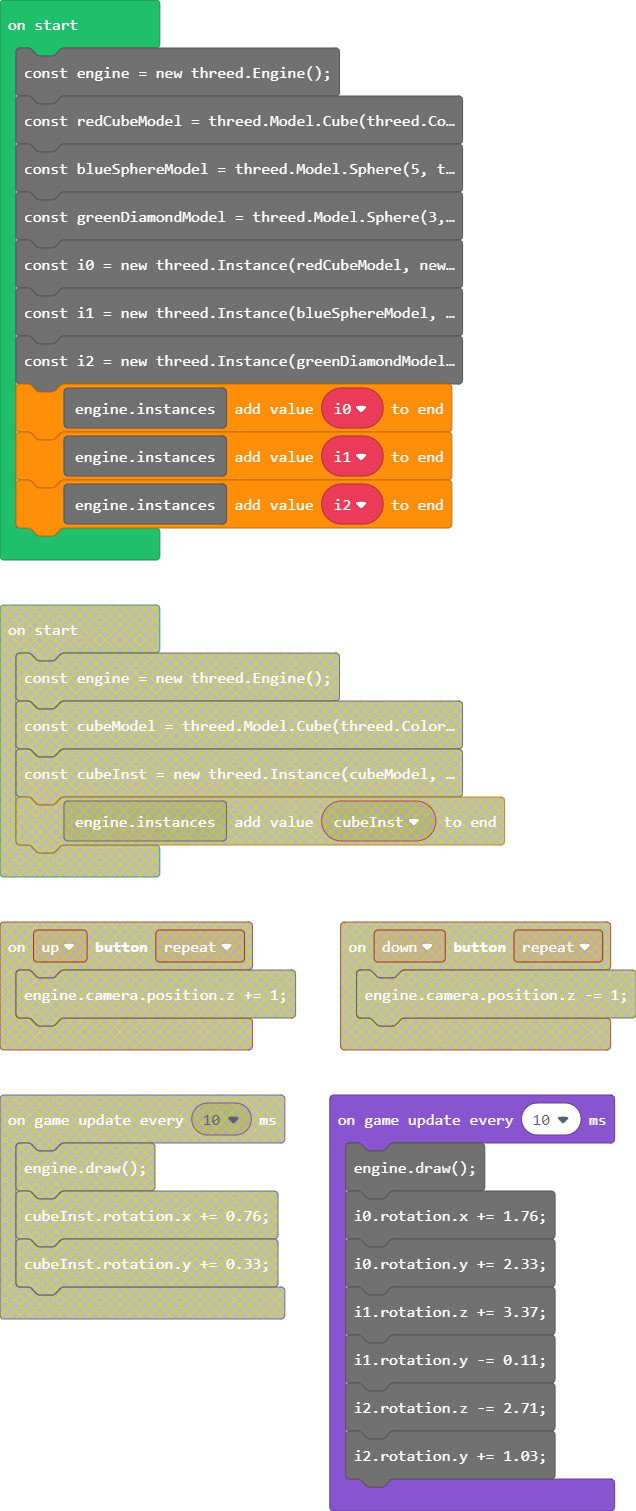
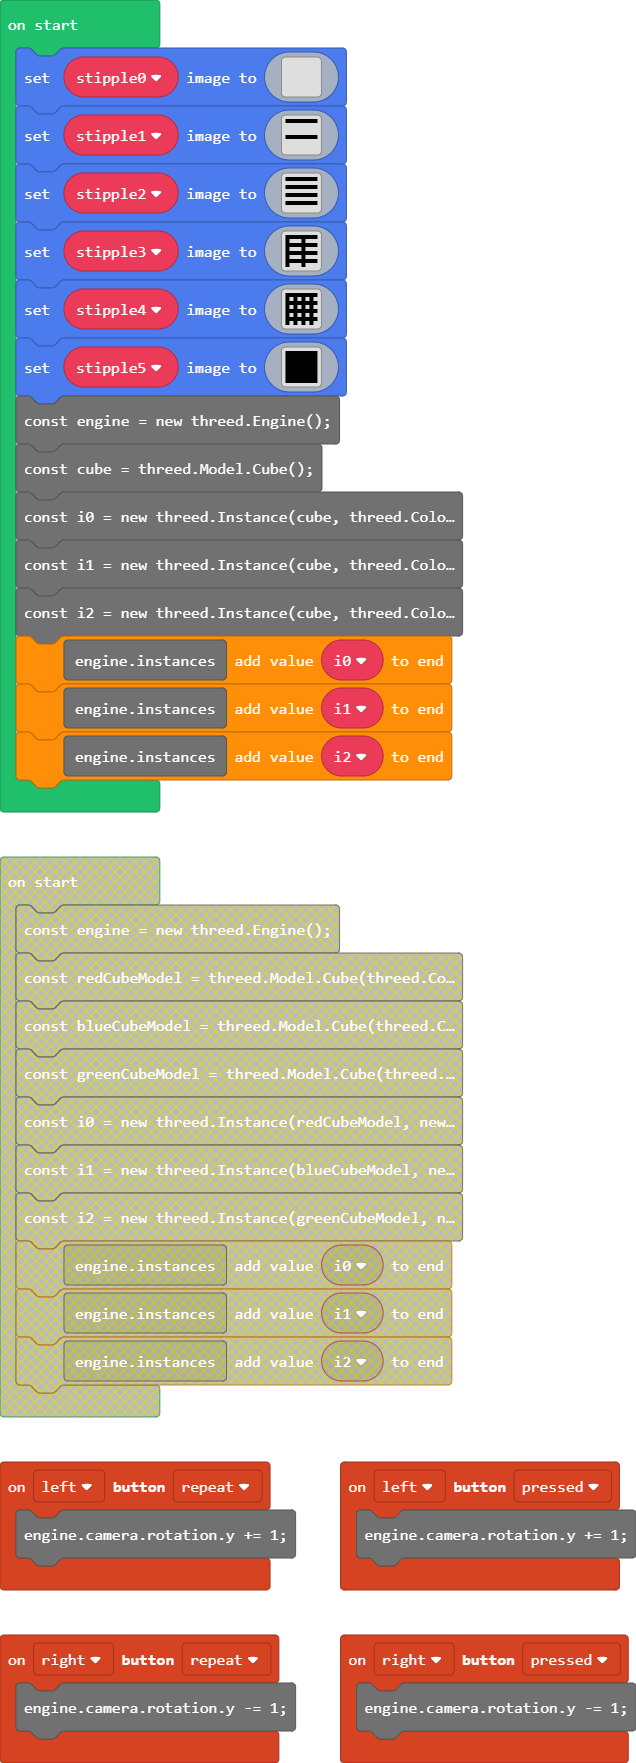
stipple wip

diff --git a/main.ts b/main.ts
@@ -1,8 +1,17 @@
+controller.right.onEvent(ControllerButtonEvent.Repeated, function () {
+    engine.camera.rotation.y -= 1;
+})
 controller.down.onEvent(ControllerButtonEvent.Repeated, function () {
     engine.camera.position.z -= 1;
 })
+controller.left.onEvent(ControllerButtonEvent.Pressed, function () {
+    engine.camera.rotation.y += 1;
+})
 controller.down.onEvent(ControllerButtonEvent.Pressed, function () {
     engine.camera.position.z -= 1;
+})
+controller.right.onEvent(ControllerButtonEvent.Pressed, function () {
+    engine.camera.rotation.y -= 1;
 })
 controller.up.onEvent(ControllerButtonEvent.Repeated, function () {
     engine.camera.position.z += 1;
@@ -10,6 +19,75 @@ controller.up.onEvent(ControllerButtonEvent.Repeated, function () {
 controller.up.onEvent(ControllerButtonEvent.Pressed, function () {
     engine.camera.position.z += 1;
 })
+controller.left.onEvent(ControllerButtonEvent.Repeated, function () {
+    engine.camera.rotation.y += 1;
+})
+let stipple5: Sprite = null
+let stipple4: Sprite = null
+let stipple3: Sprite = null
+let stipple2: Sprite = null
+let stipple1: Sprite = null
+let stipple0: Sprite = null
+stipple0.setImage(img`
+    . . . . . . . .
+    . . . . . . . .
+    . . . . . . . .
+    . . . . . . . .
+    . . . . . . . .
+    . . . . . . . .
+    . . . . . . . .
+    . . . . . . . .
+`)
+stipple1.setImage(img`
+    f f f f f f f f
+    . . . . . . . .
+    . . . . . . . .
+    . . . . . . . .
+    f f f f f f f f
+    . . . . . . . .
+    . . . . . . . .
+    . . . . . . . .
+`)
+stipple2.setImage(img`
+    f f f f f f f f
+    . . . . . . . .
+    f f f f f f f f
+    . . . . . . . .
+    f f f f f f f f
+    . . . . . . . .
+    f f f f f f f f
+    . . . . . . . .
+`)
+stipple3.setImage(img`
+    f f f f f f f f
+    f . . . f . . .
+    f f f f f f f f
+    f . . . f . . .
+    f f f f f f f f
+    f . . . f . . .
+    f f f f f f f f
+    f . . . f . . .
+`)
+stipple4.setImage(img`
+    f f f f f f f f
+    f . f . f . f .
+    f f f f f f f f
+    f . f . f . f .
+    f f f f f f f f
+    f . f . f . f .
+    f f f f f f f f
+    f . f . f . f .
+`)
+stipple5.setImage(img`
+    f f f f f f f f
+    f f f f f f f f
+    f f f f f f f f
+    f f f f f f f f
+    f f f f f f f f
+    f f f f f f f f
+    f f f f f f f f
+    f f f f f f f f
+`)
 const engine = new threed.Engine();
 const cube = threed.Model.Cube();
 const i0 = new threed.Instance(cube, threed.Colors.Red, new threed.Vector3(0, 0, 10), new threed.Vector3(45, 45, 0), 1);
@@ -20,10 +98,10 @@ engine.instances.push(i1)
 engine.instances.push(i2)
 game.onUpdateInterval(10, function () {
     engine.draw();
-    i0.rotation.x += 1.76;
-    i0.rotation.y += 2.33;
-    i1.rotation.z += 3.37;
-    i1.rotation.y -= 0.11;
-    i2.rotation.z -= 2.71;
-    i2.rotation.y += 1.03;
+i0.rotation.x += 1.76;
+i0.rotation.y += 2.33;
+i1.rotation.z += 3.37;
+i1.rotation.y -= 0.11;
+i2.rotation.z -= 2.71;
+i2.rotation.y += 1.03;
 })

diff --git a/renderer.ts b/renderer.ts
@@ -3,8 +3,6 @@ namespace threed {
     export const LightModel = {
         None: 0,
         Flat: 1,
-        Gouraud: 2,
-        Phong: 3,
     };
 
     export class Renderer {
@@ -15,7 +13,7 @@ namespace threed {
         private depth: number[];
 
         public backfaceCulling = true;
-        public depthChecksEnabled = true;
+        public depthCheckEnabled = true;
         public overWire = false;
         public lightModel = LightModel.Flat;
 
@@ -24,9 +22,10 @@ namespace threed {
         }
 
         public render() {
-            if (this.depthChecksEnabled) {
+            if (this.depthCheckEnabled) {
                 this.depth = [];
-                this.depth.length = this.image.width * this.image.height;
+                // hardware-specific compiler doesn't like this line
+                //this.depth.length = this.image.width * this.image.height;
             }
             this.image.fill(Colors.Black);
             this.renderScene();
@@ -138,10 +137,11 @@ namespace threed {
 
             // Draw horizontal segments.
             for (let y = p0.y; y < p2.y; y++) {
-                const [xl, xr] = [x_left[y - p0.y] | 0, x_right[y - p0.y] | 0];
+                const xl = x_left[y - p0.y] | 0;
+                const xr = x_right[y - p0.y] | 0;
 
                 for (let x = xl; x < xr; x++) {
-                    if (!this.depthChecksEnabled) {
+                    if (!this.depthCheckEnabled) {
                         this.putPixel(x, y, color);
                     } else {
                         const [zl, zr] = [iz_left[y - p0.y], iz_right[y - p0.y]];

diff --git a/engine.ts b/engine.ts
@@ -15,6 +15,9 @@ namespace threed {
             this._camera = new Camera(new Vector3(0, 0, 0), new Vector3(0, 0, 0));
             this._light = new Light(Vector3.Normalized(new Vector3(1, 1, -1)));
             this._renderer = new Renderer(this);
+            this._renderer.backfaceCulling = true;
+            this._renderer.depthCheckEnabled = true;
+            this._renderer.lightModel = LightModel.Flat;
 
             image.setPalette(Colors.Palette);
         }
